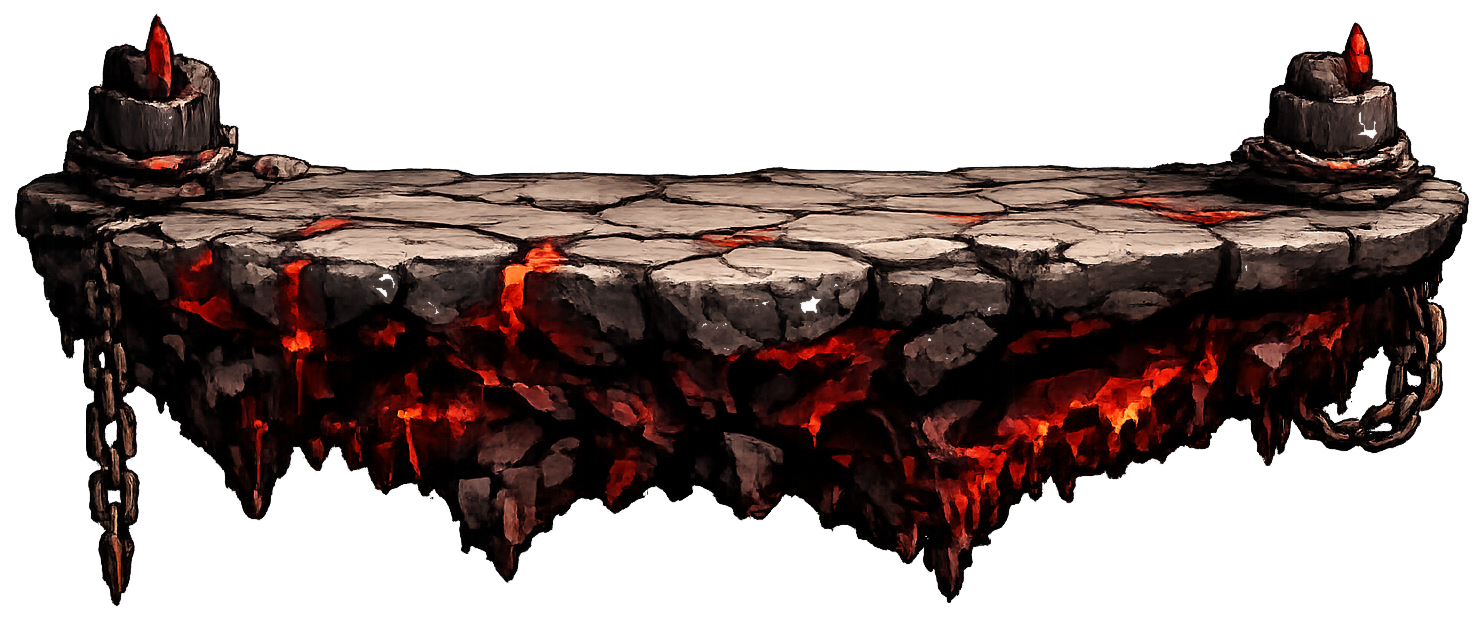
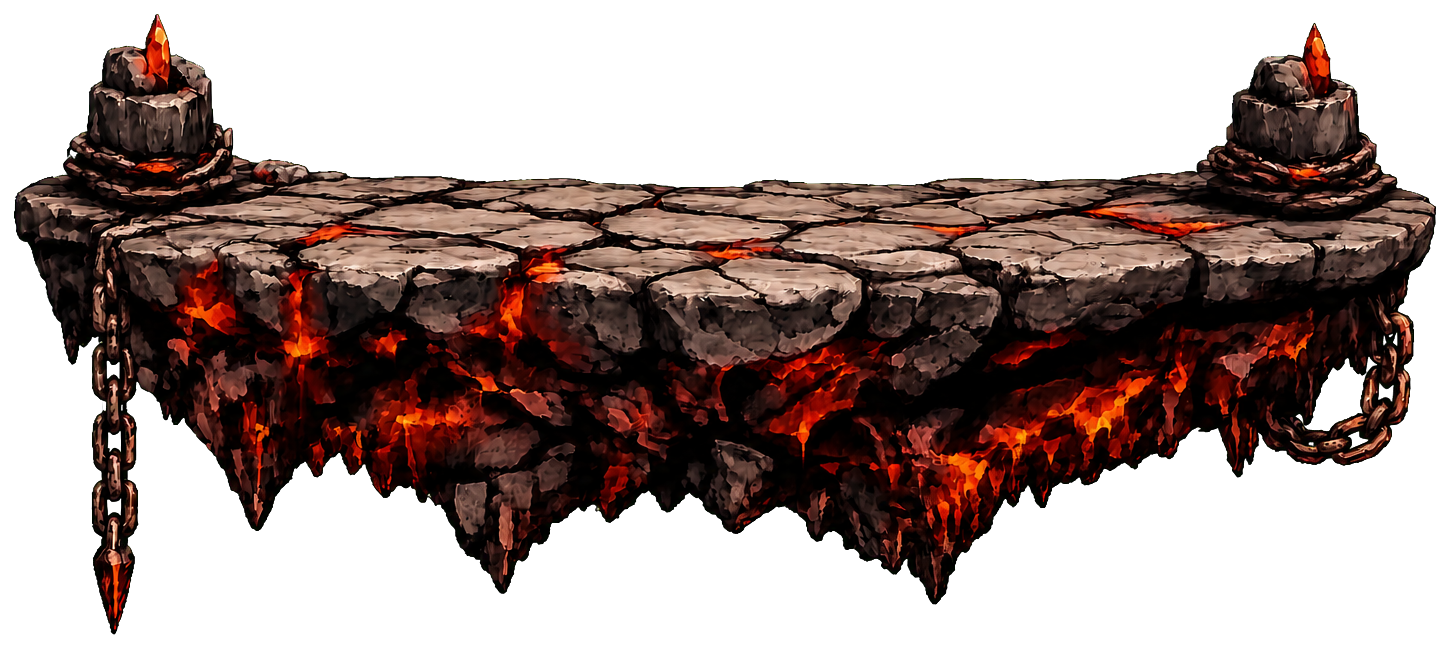
Replace Colt Run platform 01

diff --git a/app.js b/app.js
@@ -2046,6 +2046,7 @@ function startColtRunGame() {
   coltSprites.leap.src = "assets/colt-run-leap.png?v=20260702-clean";
   const smallPlatformSpriteIndex = 21;
   const platformAssetVersions = Array.from({ length: 22 }, () => "20260718-platform07-replace1");
+  platformAssetVersions[0] = "20260718-platform01-replace1";
   platformAssetVersions[4] = "20260718-platform05-replace1";
   platformAssetVersions[8] = "20260718-platform09-replace1";
   const platformSpriteSources = platformAssetVersions.map((version, index) => (

diff --git a/index.html b/index.html
@@ -8,7 +8,7 @@
 </head>
 <body>
   <main id="app" class="app-shell"></main>
-  <script src="app.js?v=20260718-platform09-replace1"></script>
+  <script src="app.js?v=20260718-platform01-replace1"></script>
 </body>
 </html>
 
